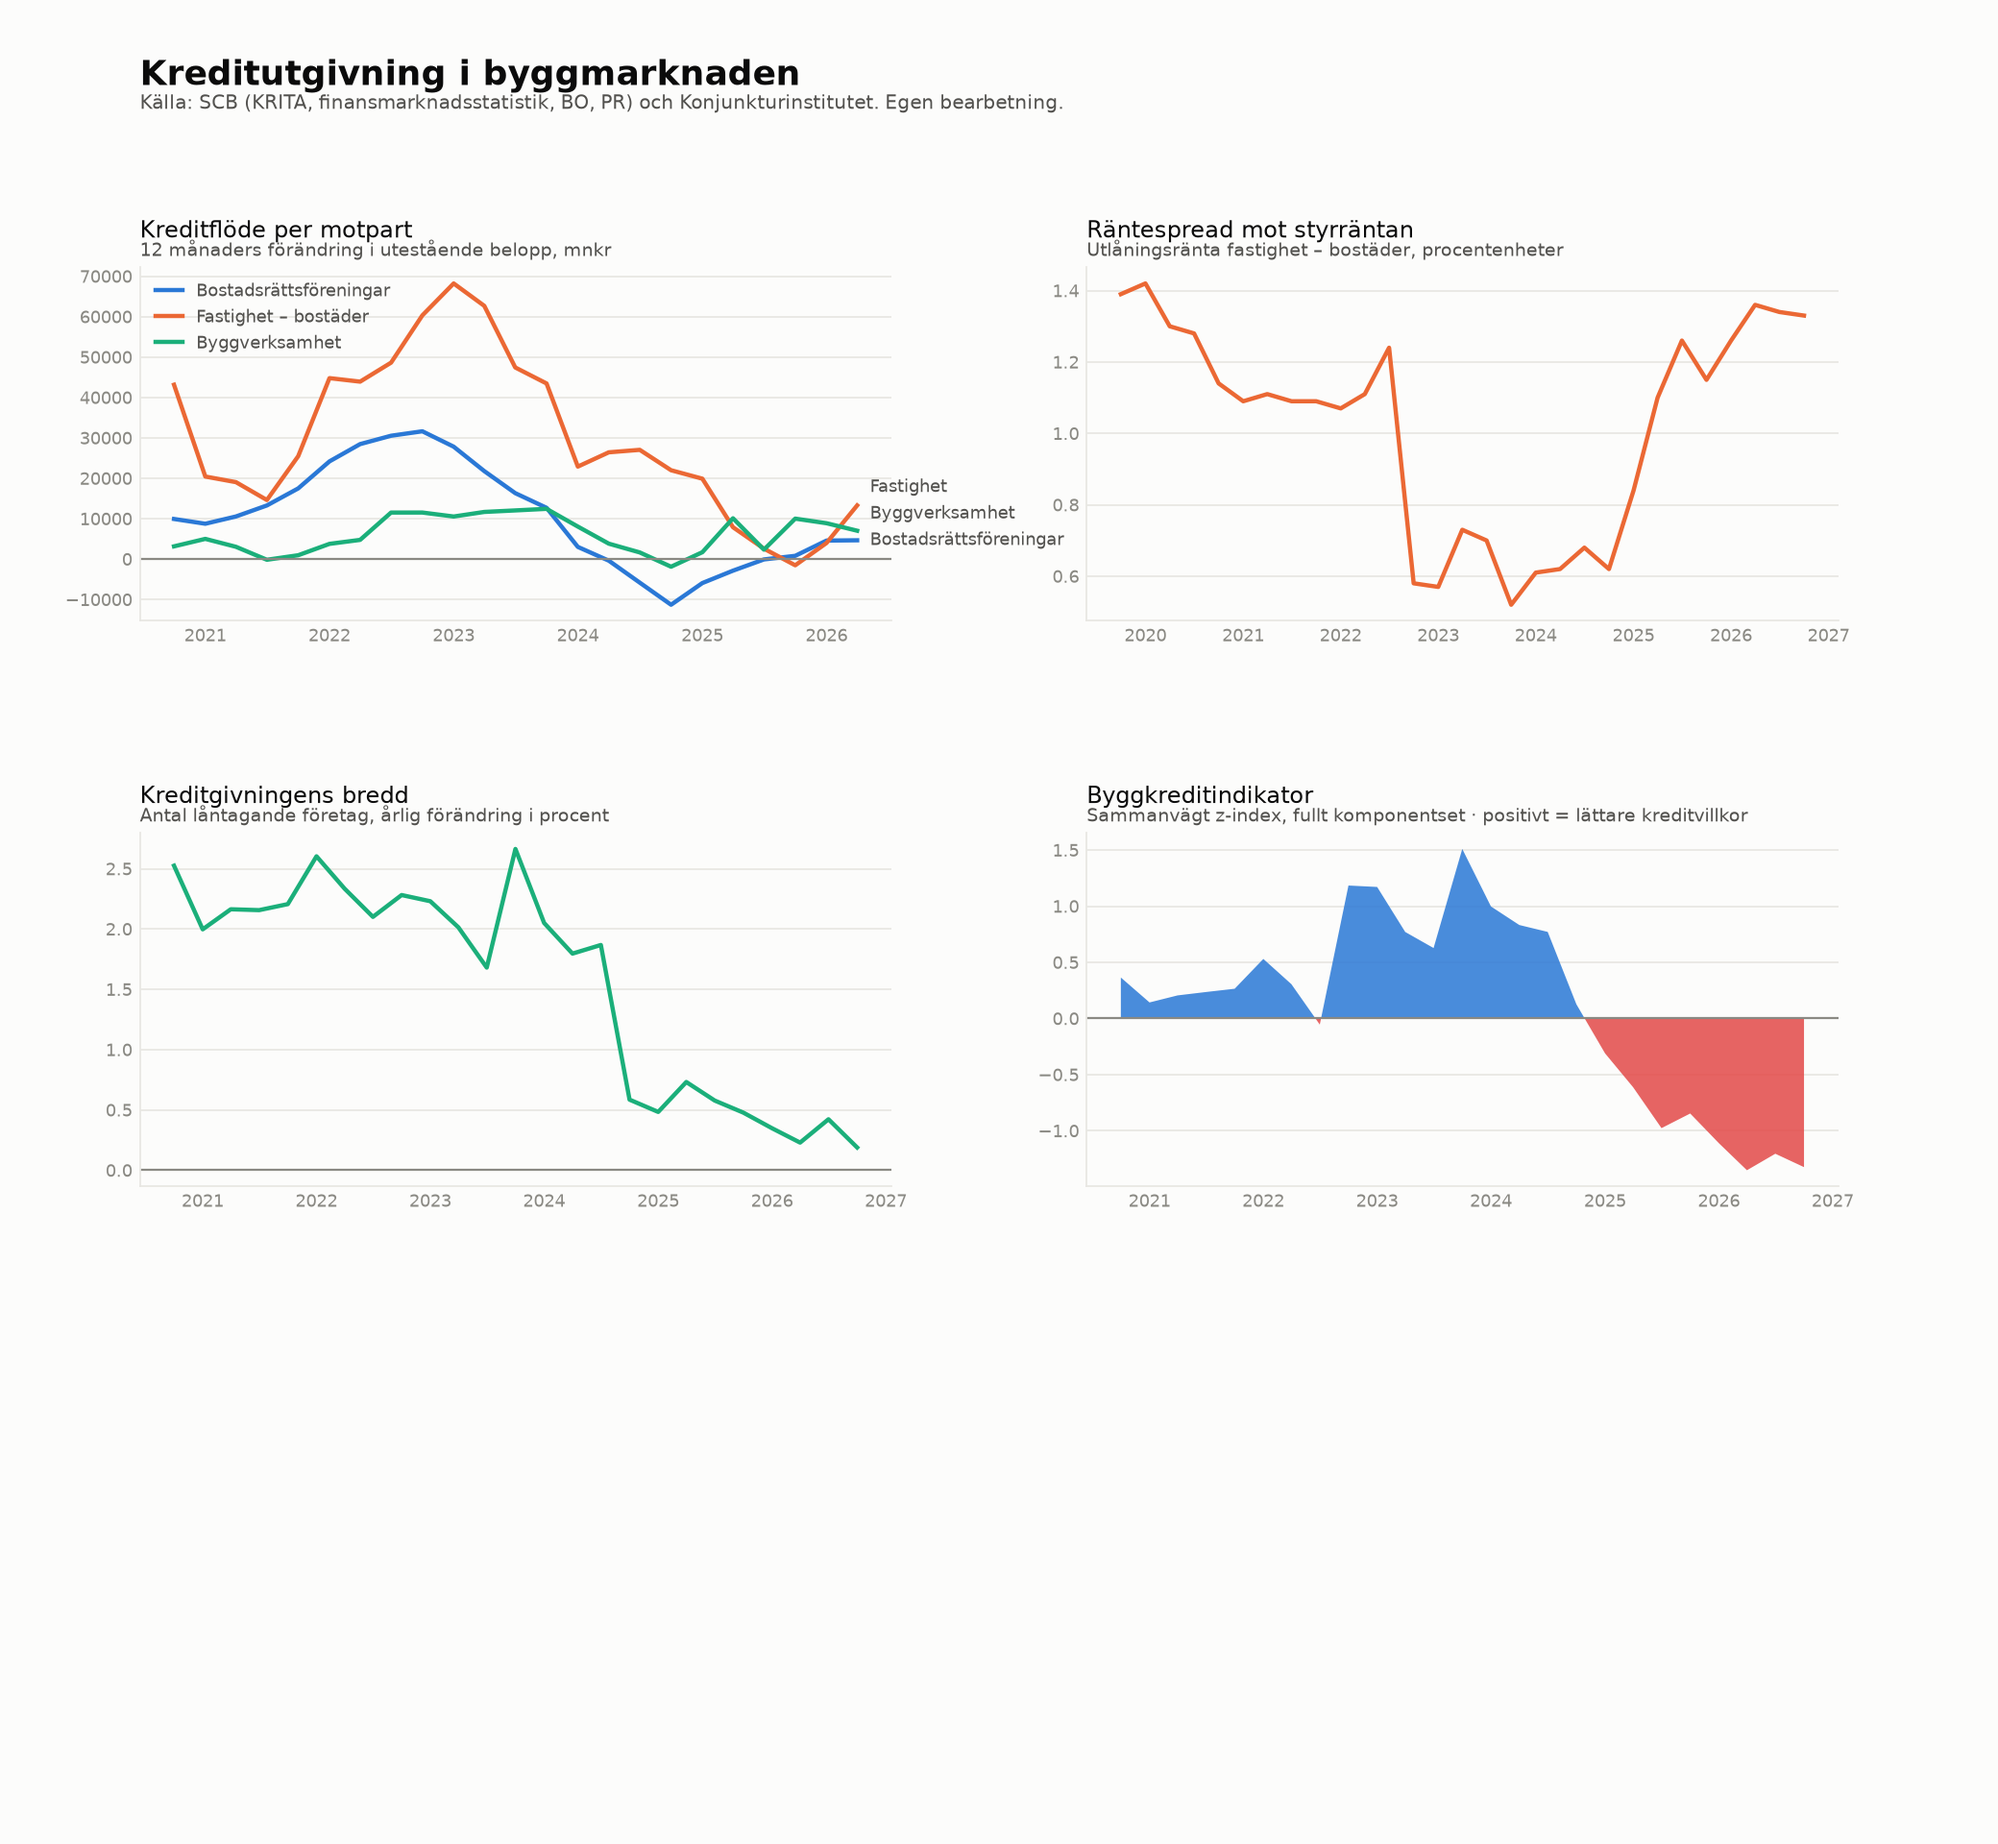
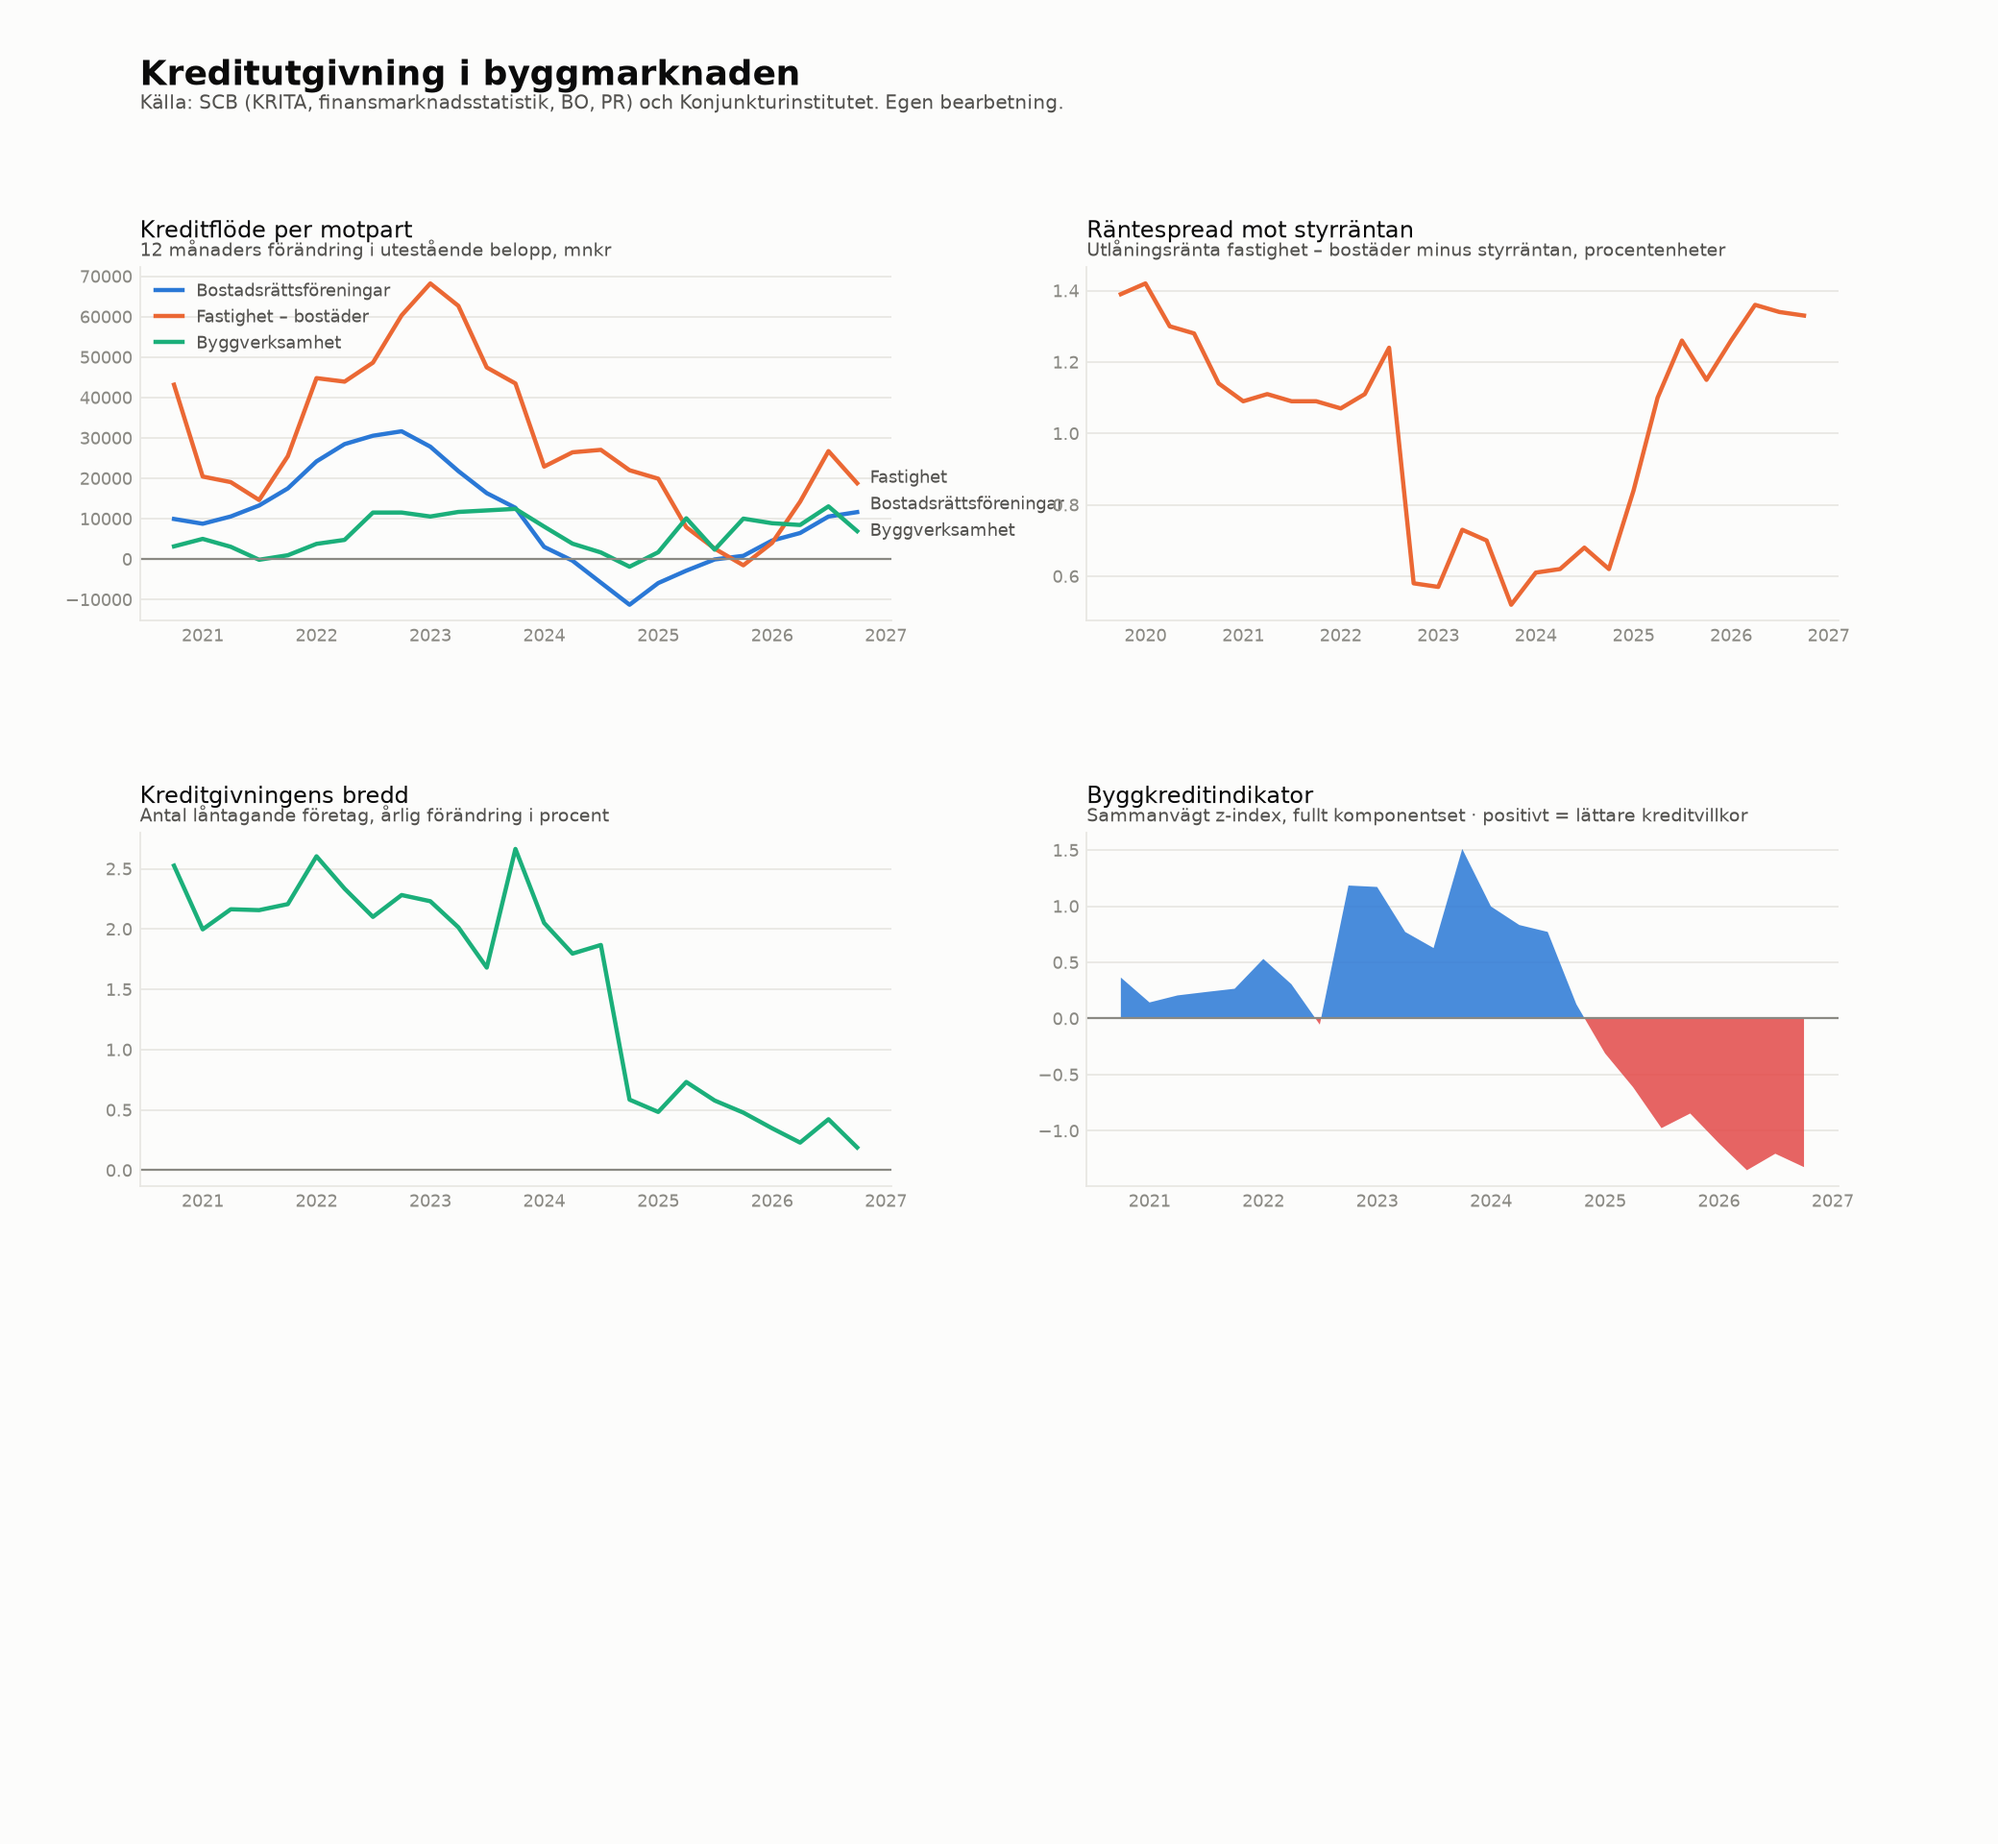
Auto: uppdaterad byggkreditindikator

diff --git a/byggkredit-scb/data/rapport.md b/byggkredit-scb/data/rapport.md
@@ -6,13 +6,11 @@ Automatiskt genererad sammanfattning. Läs tillsammans med `data/resolution.json
 
 | Mått | Period | Värde |
 |---|---|---|
-| Kreditflöde, bostadsrättsföreningar (12 mån) | 2026Q1 | 4 654.0 |
-| Kreditflöde, fastighet – bostäder (12 mån) | 2026Q1 | 13 291.0 |
-| Kreditflöde, byggverksamhet (12 mån) | 2026Q1 | 7 022.0 |
+| Kreditflöde, bostadsrättsföreningar (12 mån) | 2026Q3 | 11 630.0 |
+| Kreditflöde, fastighet – bostäder (12 mån) | 2026Q3 | 18 776.0 |
+| Kreditflöde, byggverksamhet (12 mån) | 2026Q3 | 6 924.0 |
 | Kreditflöde, hushållens bolån (12 mån) | 2026Q3 | 141 058.0 |
-| Kreditflöde, obligationer (12 mån) | 2026Q3 | 0.1 |
 | Räntespread, fastighet – bostäder (p.e.) | 2026Q3 | 1.3 |
-| Ränta mot branschsnitt, fastighet – bostäder (p.e.) | 2026Q3 | 3.1 |
 | Antal låntagare, årstakt (%) | 2026Q3 | 0.2 |
 | Byggkreditindikator (z) | 2026Q3 | -1.3 |
 
